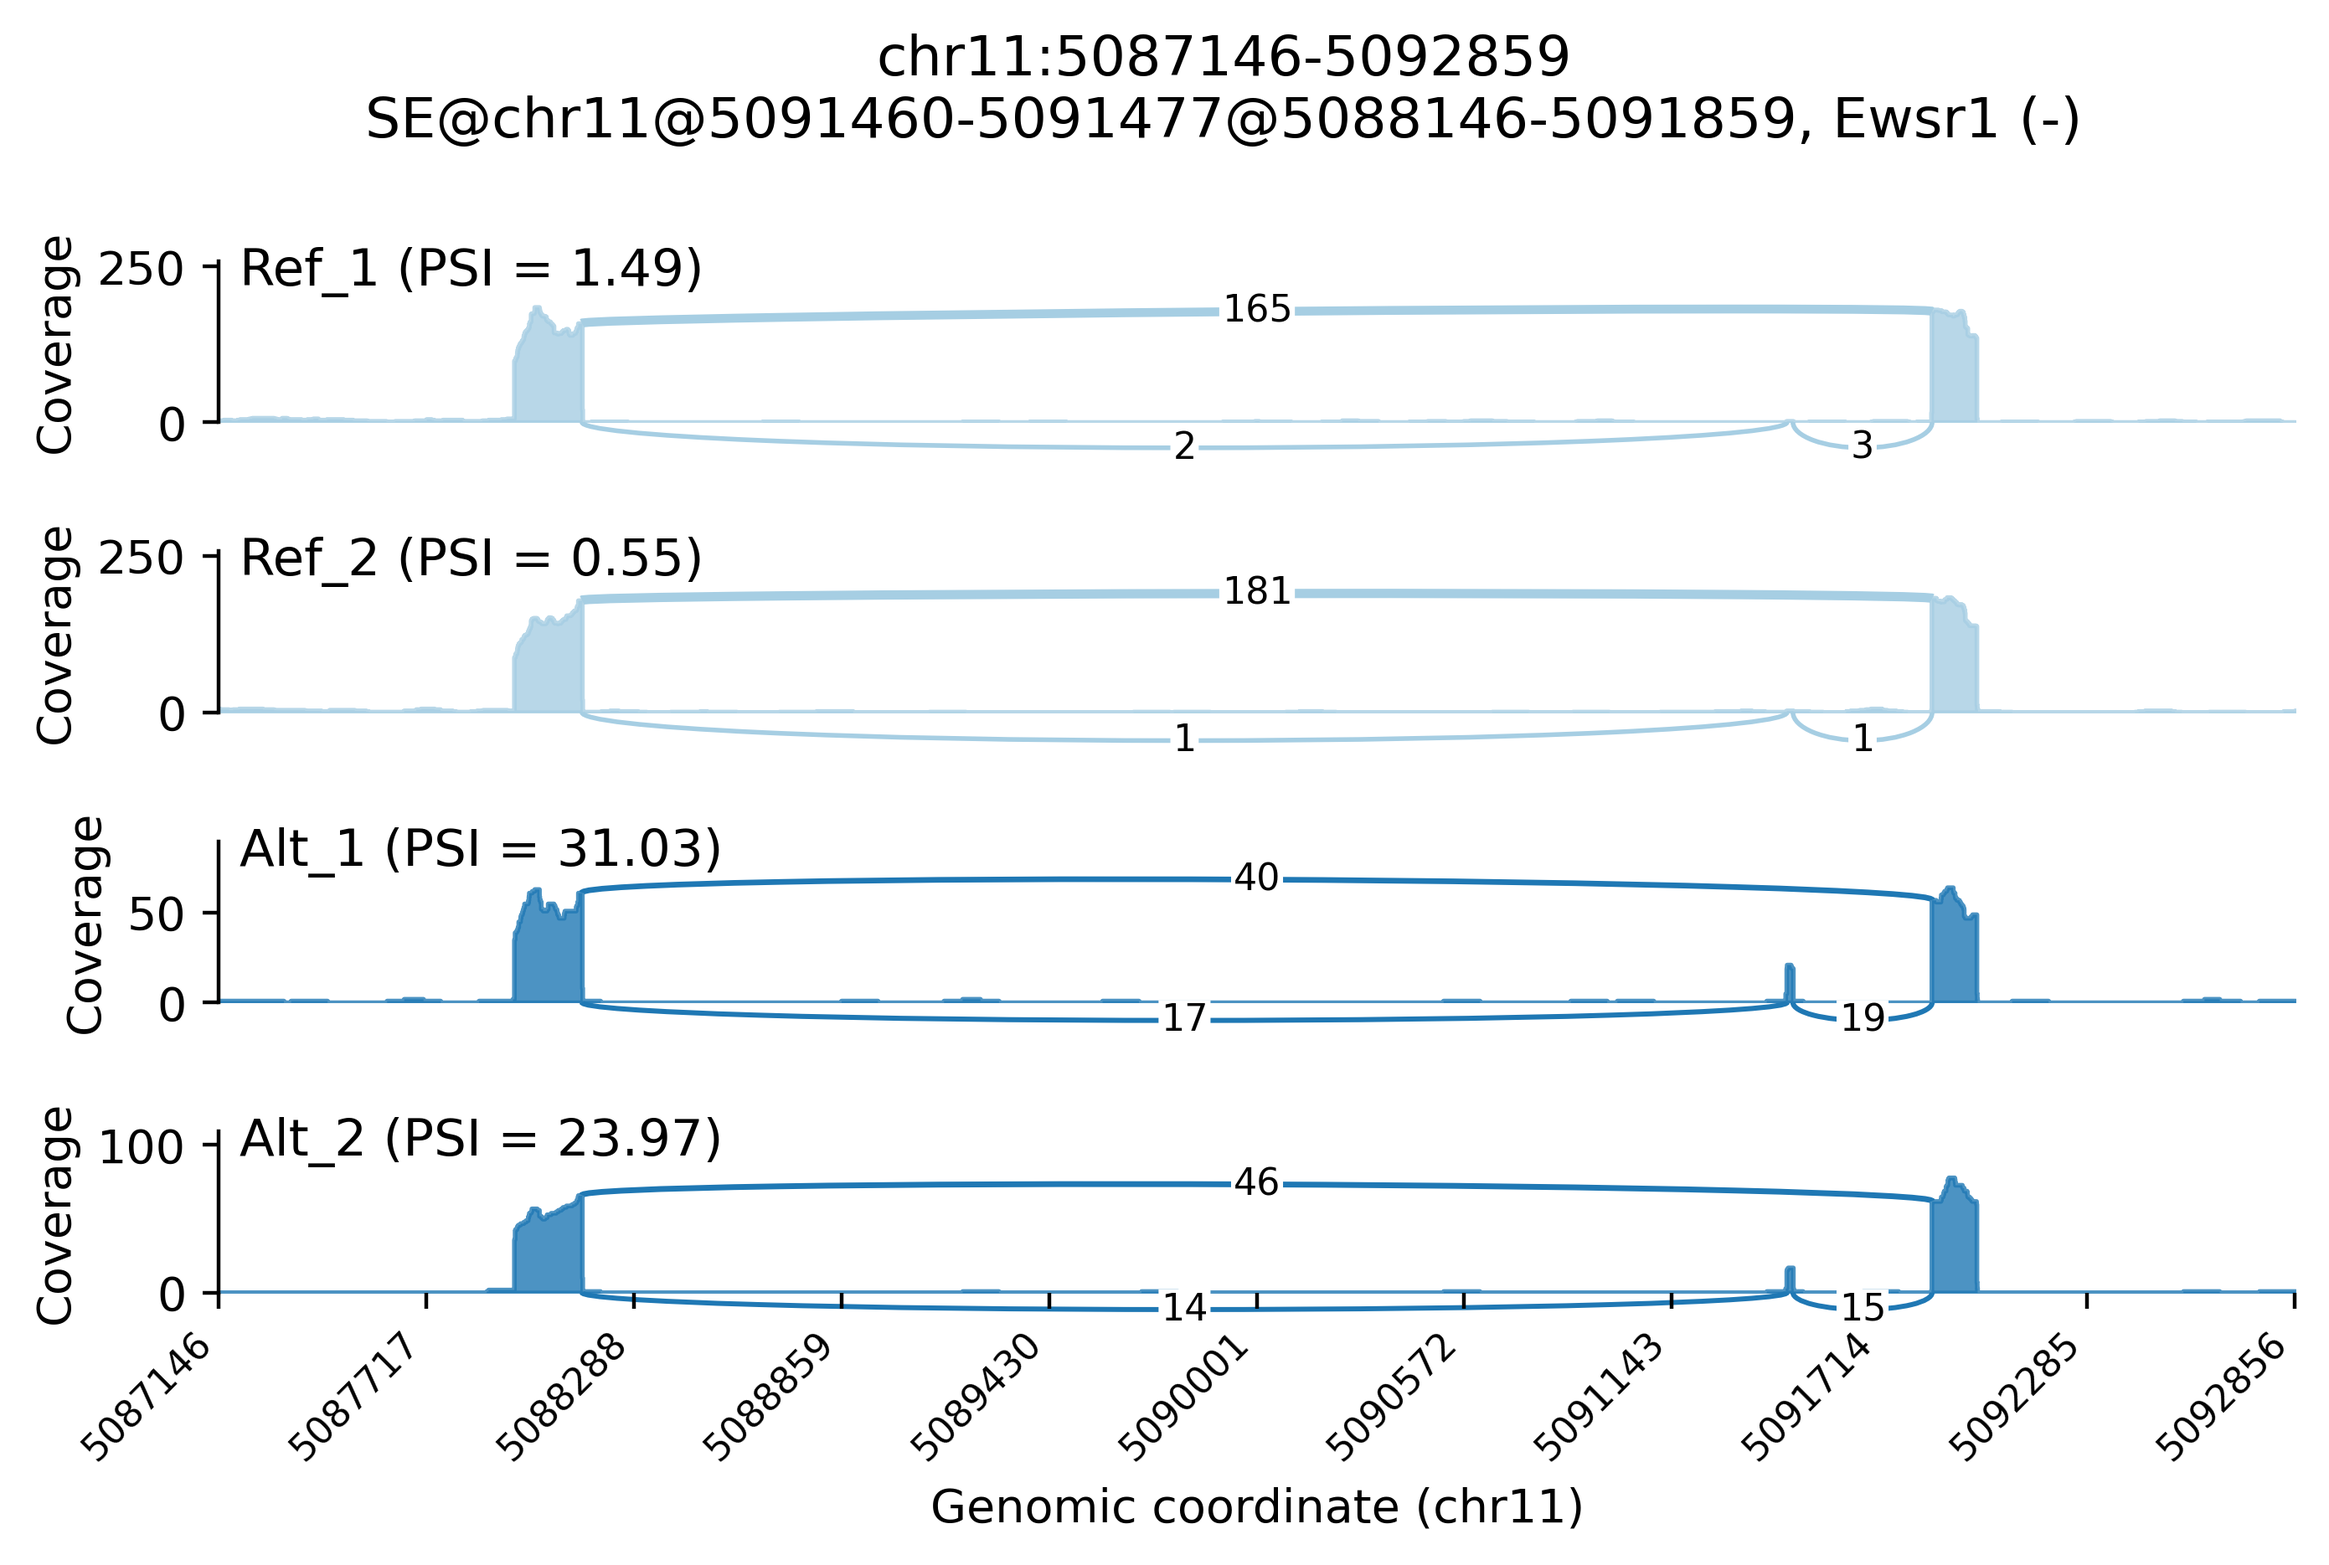
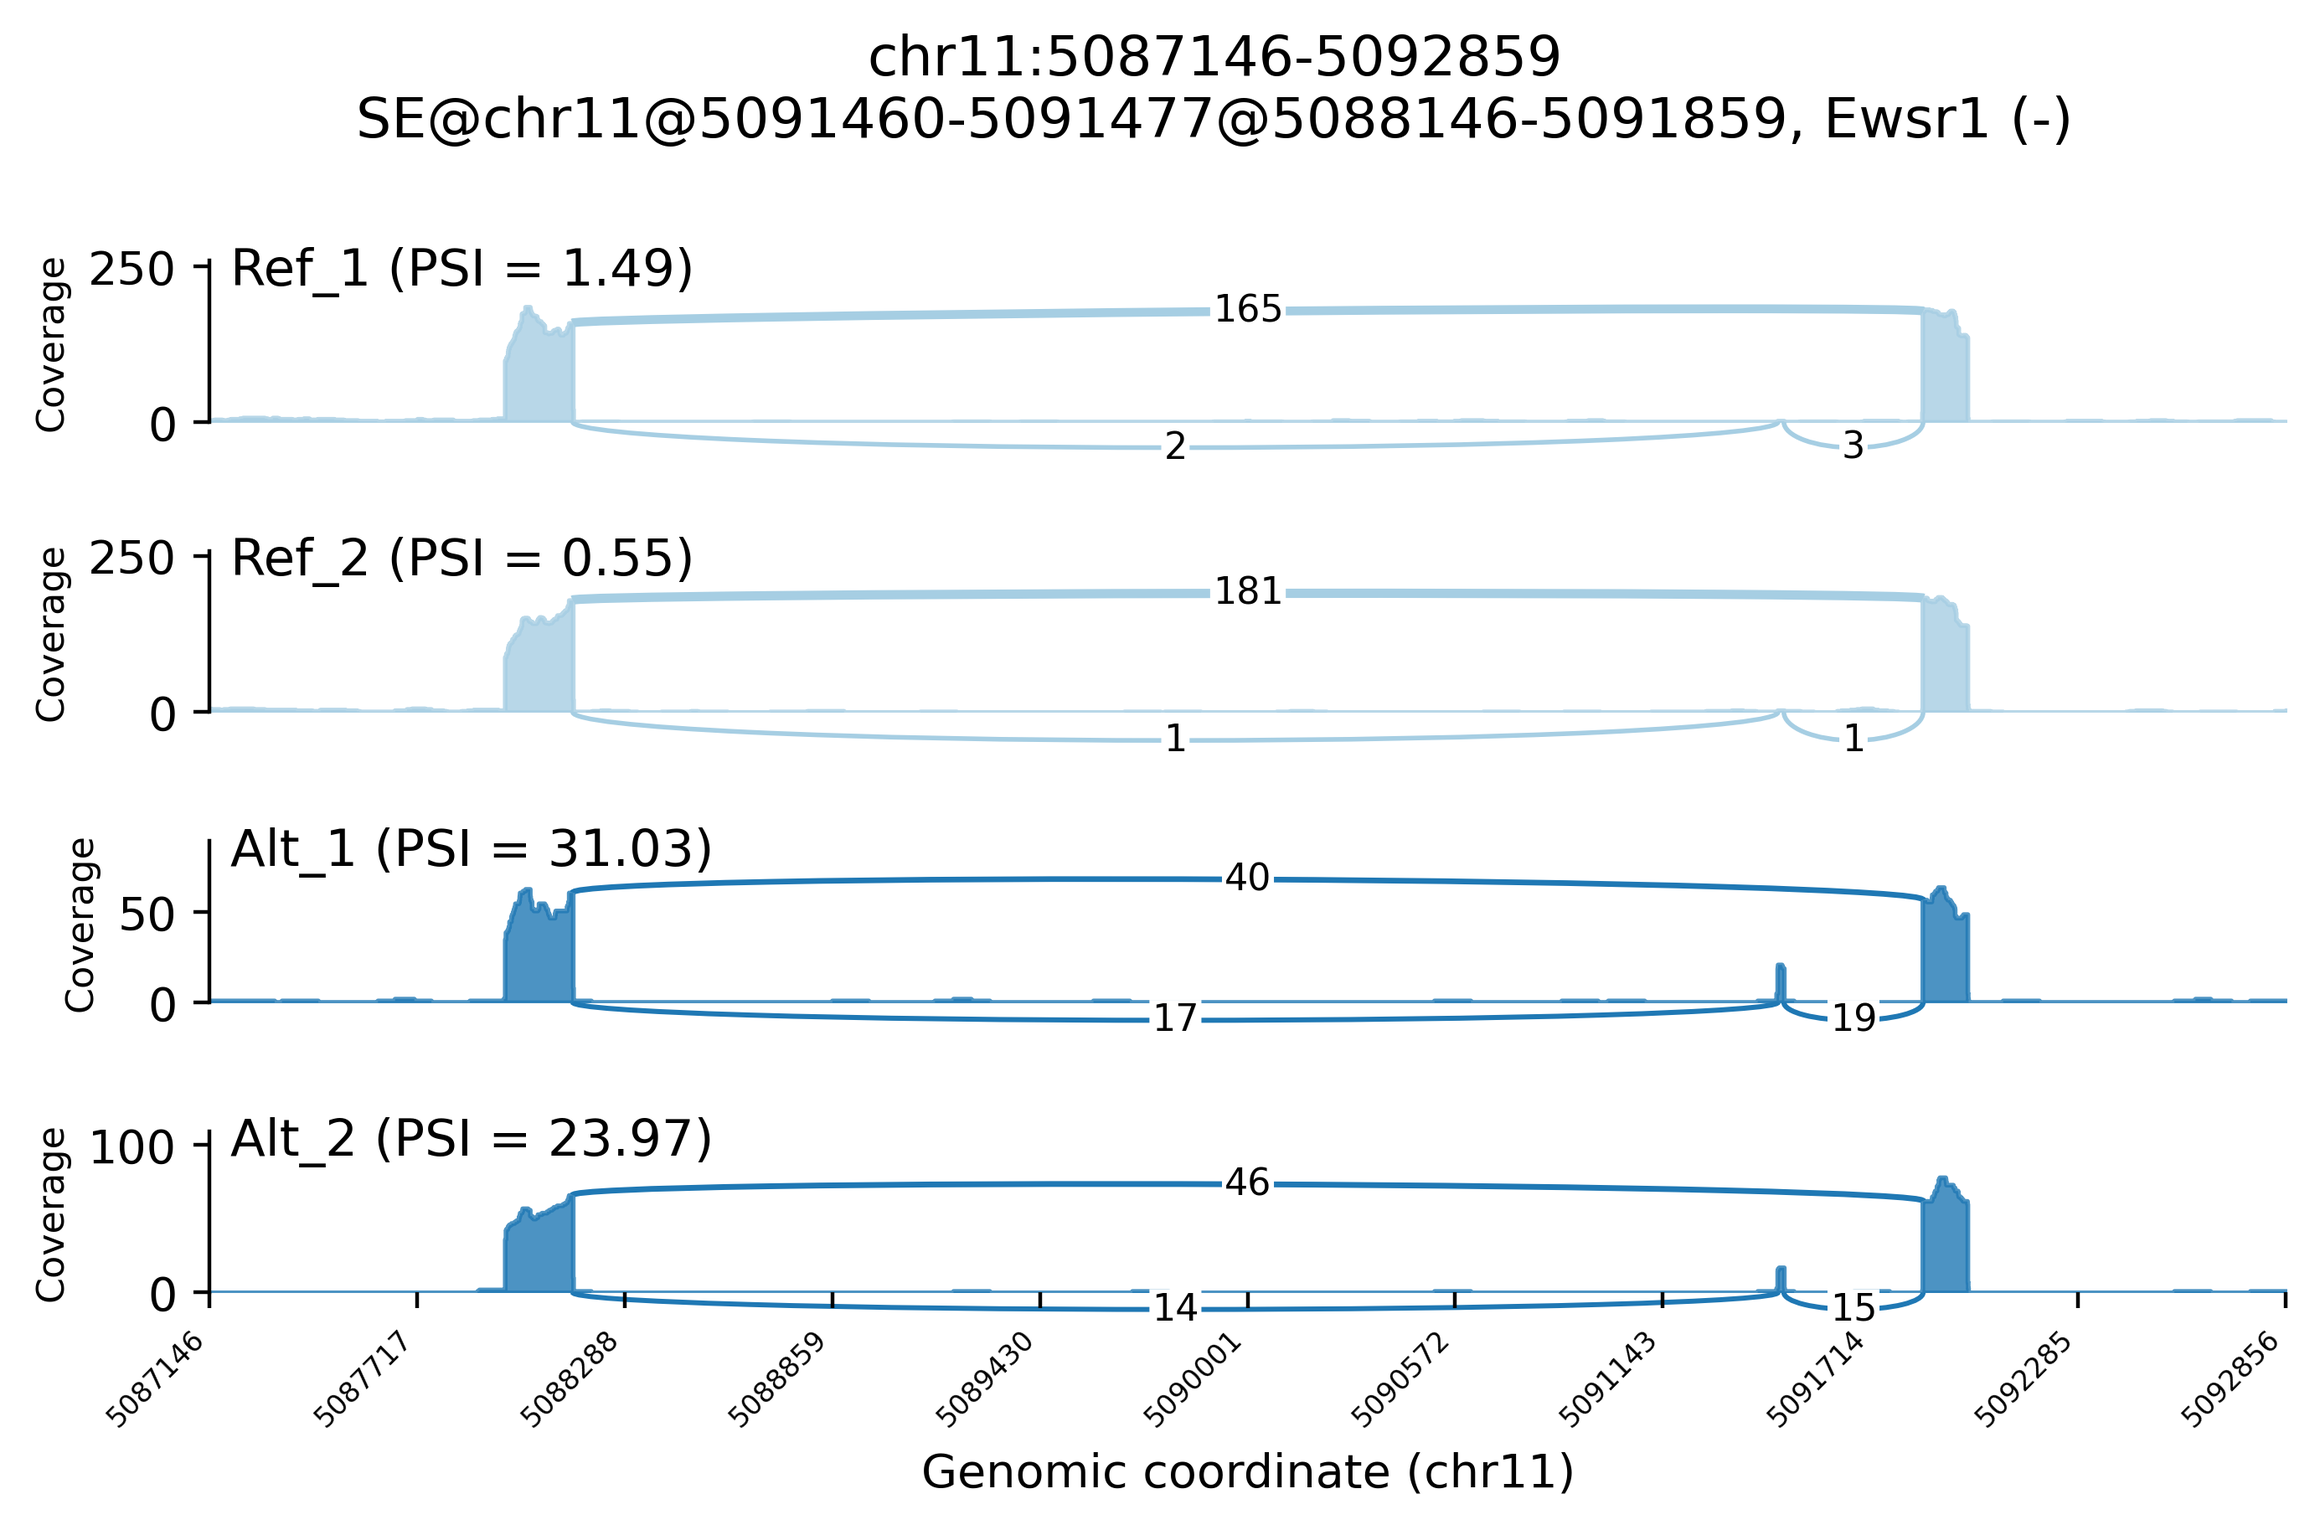
Change fontsize of labels

diff --git a/src/shiba2sashimi/plots.py b/src/shiba2sashimi/plots.py
@@ -138,7 +138,7 @@ def sashimi(coverage_dict, junctions_dict, experiment_dict, samples, groups, col
 			)
 		ax.set_xlim(start, end)
 		ax.set_ylim(bottom = 0, top = max(cov) * 1.4)
-		ax.set_ylabel("Coverage", fontsize=10)
+		ax.set_ylabel("Coverage", fontsize=8)
 		if i < n_samples - 1:
 			ax.set_xticklabels([])
 		else:
@@ -151,7 +151,7 @@ def sashimi(coverage_dict, junctions_dict, experiment_dict, samples, groups, col
 		ax.set_xticks([])
 	# Add xticks to the bottom subplot
 	ax.set_xticks(np.arange(start, end, step=(end - start) // 10))
-	ax.set_xticklabels(np.arange(start, end, step=(end - start) // 10), rotation=45, ha='right', fontsize=8)
+	ax.set_xticklabels(np.arange(start, end, step=(end - start) // 10), rotation=45, ha='right', fontsize=6)
 	# Put title on the top subplot
 	title = f"{chrom}:{start}-{end}"
 	if strand is not None and pos_id:
